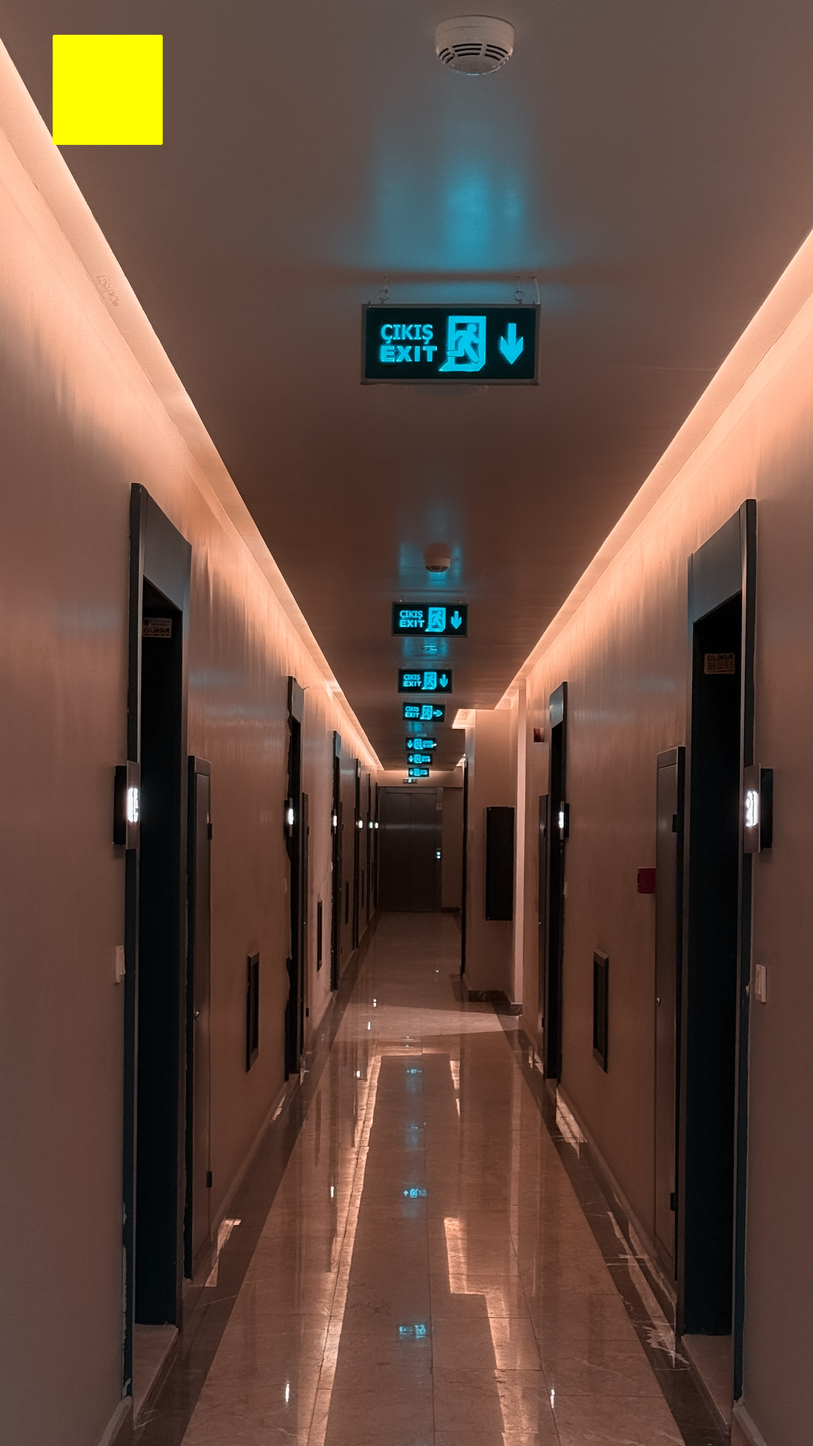
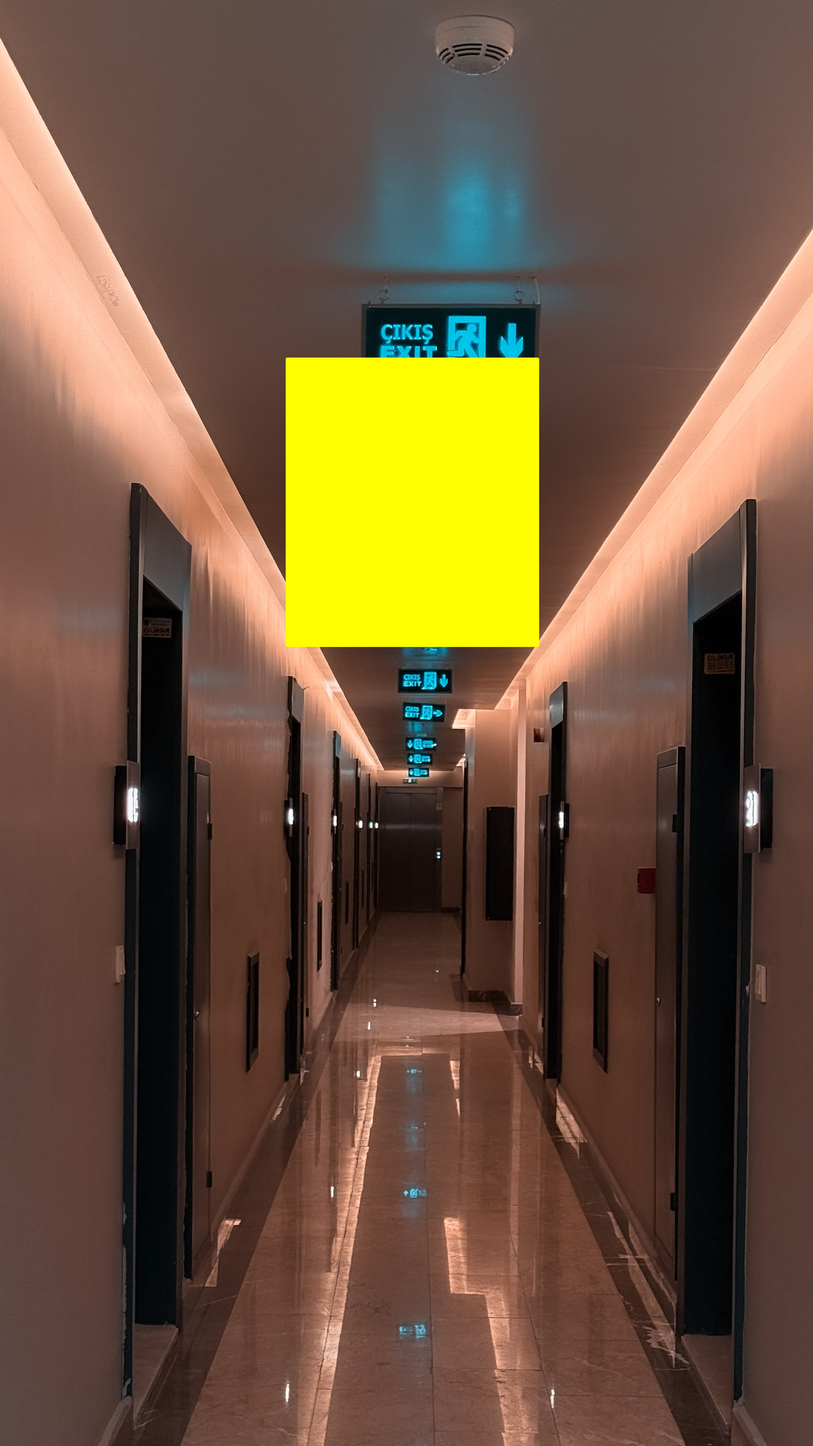
Task 4 Updated

Changed region(s): [[0.3395, 0.2188, 0.679, 0.4688], [0.0617, 0.0, 0.216, 0.125]]

diff --git a/Task 4/task4_code.py b/Task 4/task4_code.py
@@ -1,8 +1,8 @@
 # Draw a square or rectangle around a specific part of the image with a yellow border. Fill the inside of this area.
 import cv2
 img = cv2.imread('Data/IMG_5378.JPG')
-top_left = (150, 100)
-bottom_right = (450, 400)
+top_left = (800, 1000)
+bottom_right = (1500, 1800)
 cv2.rectangle(img, top_left, bottom_right, (0, 255, 255), thickness=-1)
 cv2.rectangle(img, top_left, bottom_right, (0, 255, 255), thickness=5)
 cv2.imwrite('Data/rectangle_filled_image.JPG', img)
